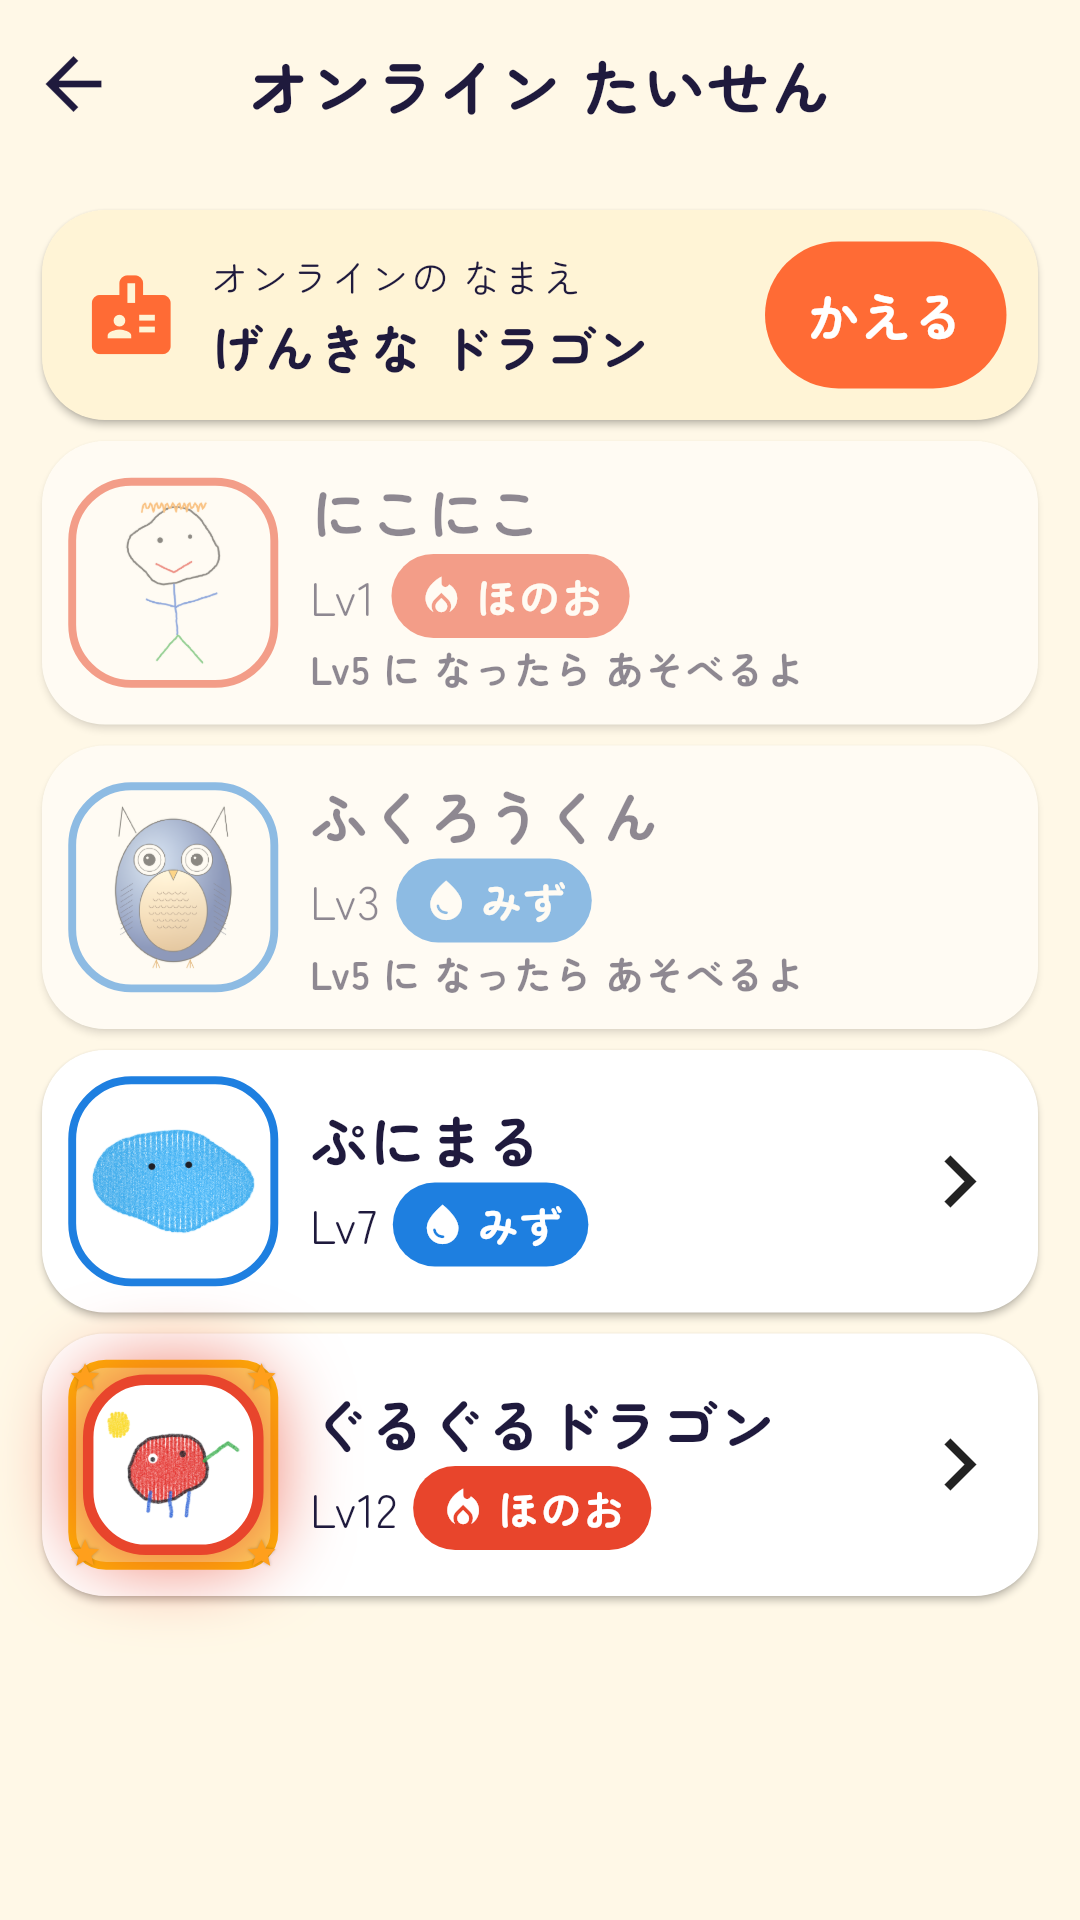
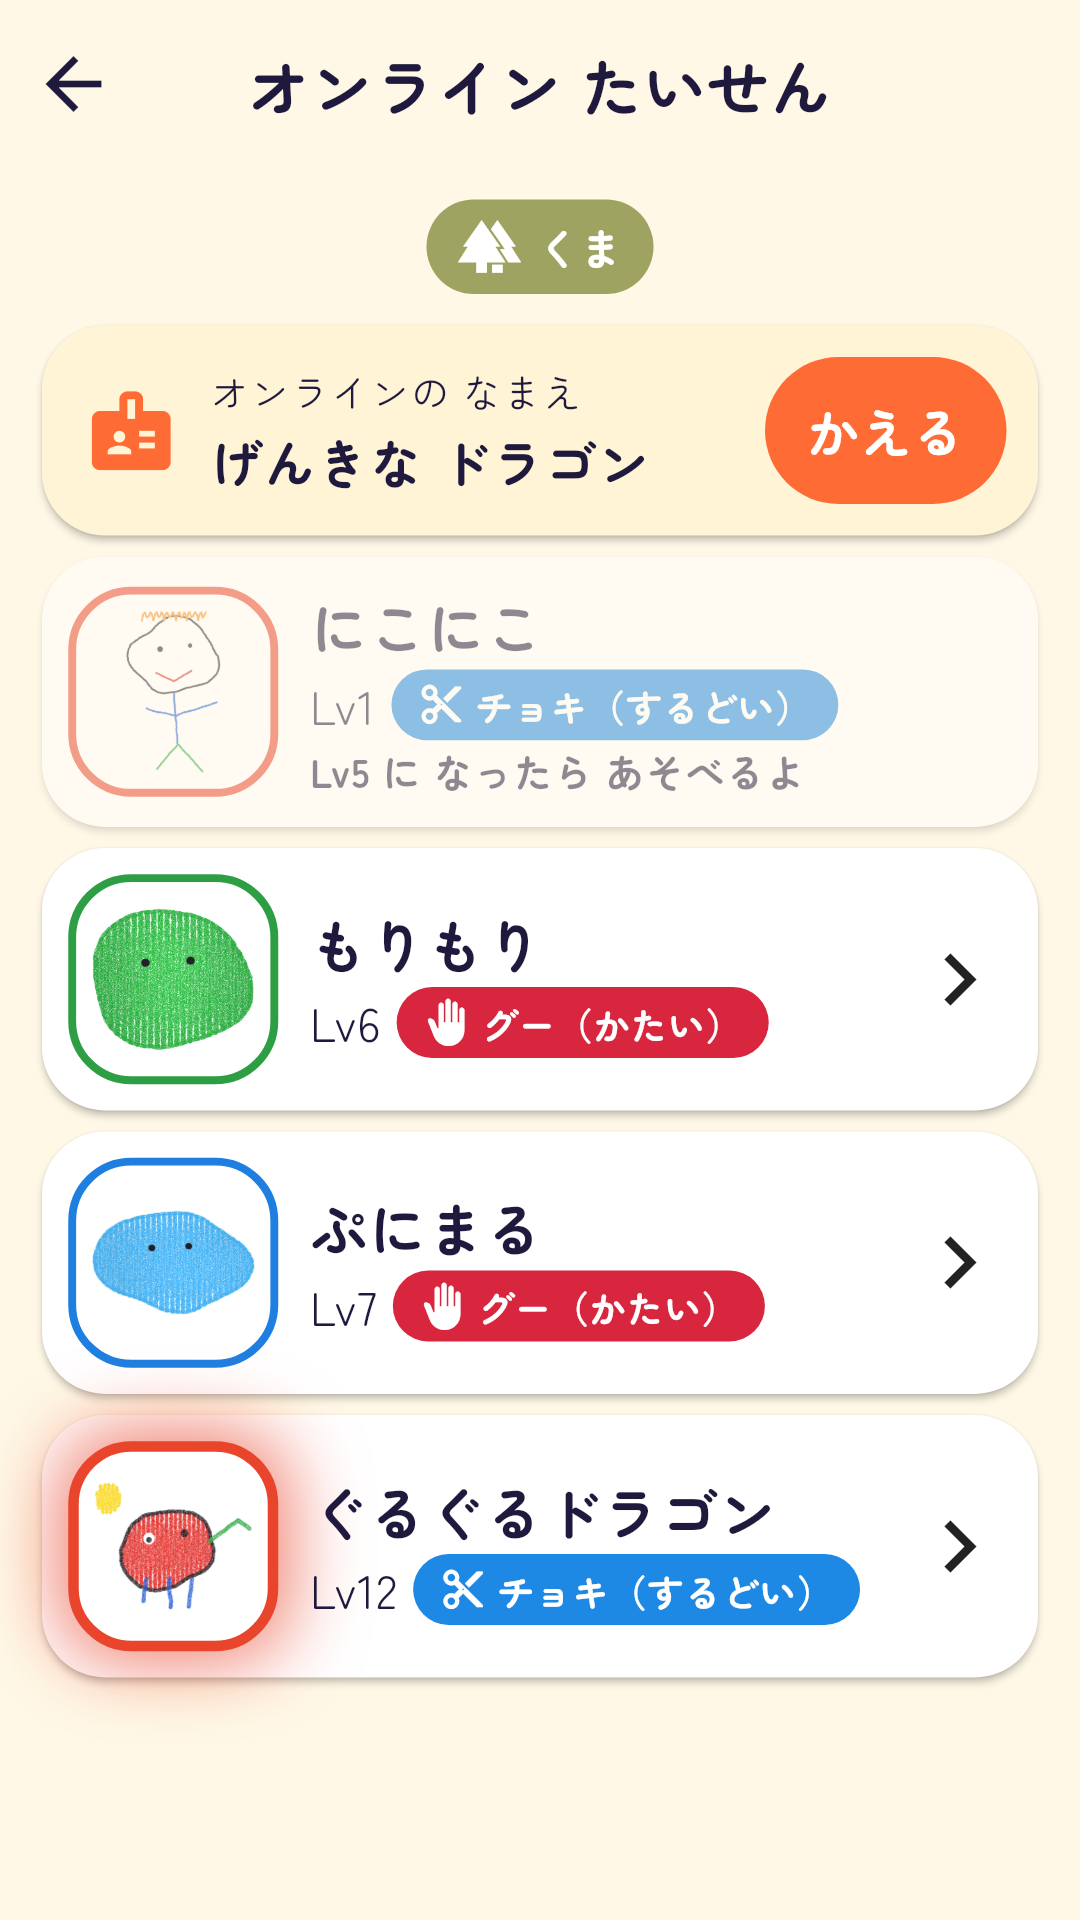
store: v2.0 screenshots (drawing tool, joint editor, 100 stages, online badge) and feature graphic
screenshots_test.dart: new shots of the in-app drawing tool and the joint
editor, worlds 1-3 open with stars, the くま badge in the online lobby; the
collection is kid drawings only (asserted: no hidden-form character in any
store shot). compose_screenshots.py: v2 order and captions, the parents'
safety list without IAP and without 'paper only'. Feature graphic tagline
'かいた えが うごいて たたかう！'.

Claude-Session: https://claude.ai/code/session_01QRHLaYFdZHWgzxL5AWfKrR

Changed region(s): [[0.0306, 0.0938, 0.9778, 0.9062], [0.9472, 0.5, 0.9778, 0.5312], [0.275, 0.125, 0.3056, 0.1562]]

diff --git a/app/test/screenshots/screenshots_test.dart b/app/test/screenshots/screenshots_test.dart
@@ -5,12 +5,17 @@
 // (`00_paper_photo.jpg`), so Before (paper) and After (character) match.
 // store/tools/compose_screenshots.py turns a selection into the listing.
 //
+// Store rule (SPEC §3.5, docs/STORE_LISTING.md §3): no screenshot shows a
+// character in the hidden form, nor anything that rates a drawing — every
+// character below is a kid drawing (checked in setUpAll).
+//
 // Not part of the normal test run (tag `screenshots` is skipped by
 // dart_test.yaml). Regenerate with `tool/screenshots.sh`.
 @Tags(['screenshots'])
 library;
 
 import 'dart:io';
+import 'dart:math' as math;
 import 'dart:ui' as ui;
 
 import 'package:doodle_battle/data/app_settings.dart';
@@ -25,6 +30,8 @@ import 'package:doodle_battle/features/card_print/card_output.dart';
 import 'package:doodle_battle/features/drawing_analysis/drawing_analyzer.dart';
 import 'package:doodle_battle/features/drawing_loop/odai/daily_odai.dart';
 import 'package:doodle_battle/features/drawing_loop/odai/stamp_card.dart';
+import 'package:doodle_battle/features/draw_canvas/draw_canvas_screen.dart';
+import 'package:doodle_battle/features/draw_canvas/stroke_drawing.dart';
 import 'package:doodle_battle/features/video_export/before_photo_extractor.dart';
 import 'package:doodle_battle/features/video_export/video_export_providers.dart';
 import 'package:flutter/material.dart';
@@ -52,7 +59,7 @@ late Uint8List _paperPhoto; // ... on a table (Before)
 late BeforePhoto _before;
 late DrawingAnalysisResult _blob;
 late DrawingAnalysisResult _marker;
-late DrawingAnalysisResult _artist; // polished line art (internally weak)
+late DrawingAnalysisResult _green;
 
 Future<void> _loadFonts() async {
   Future<ByteData> asset(String key) => rootBundle.load(key);
@@ -102,7 +109,7 @@ CharacterV2 _char(
       ],
     );
 
-/// The child's collection: levels 12 / 7 / 3 (polished line art) / 1.
+/// The child's collection: levels 12 / 7 / 6 / 1, all kid drawings.
 List<CharacterV2> _collection() => [
   _char(
     'c_1',
@@ -116,24 +123,30 @@ List<CharacterV2> _collection() => [
     subject: 'ドラゴン',
   ),
   _char('c_2', 'ぷにまる', _blob, level: 7, xp: 40),
-  _char('c_3', 'ふくろうくん', _artist, level: 3, xp: 30),
+  _char('c_3', 'もりもり', _green, level: 6, xp: 30),
   _char('c_4', 'にこにこ', _marker, level: 1),
 ];
 
 Map<String, Uint8List> _images() => {
   'c_1': _scribble.cutoutPng,
   'c_2': _blob.cutoutPng,
-  'c_3': _artist.cutoutPng,
+  'c_3': _green.cutoutPng,
   'c_4': _marker.cutoutPng,
 };
 
 const _progress = GameProgress(
-  clearedStage: 9,
+  clearedStage: 23, // worlds 1–3 open (stage select: 100 stages in 10 worlds)
+  stageStars: {
+    1: 3, 2: 3, 3: 3, 4: 2, 5: 3, 6: 3, 7: 2, 8: 3, 9: 3, 10: 2, //
+    11: 3, 12: 2, 13: 3, 14: 3, 15: 1, 16: 3, 17: 2, 18: 3, 19: 3, 20: 2,
+    21: 3, 22: 2, 23: 1,
+  },
   displayName: ChosenDisplayName(
     adjectiveId: 'a05',
     nounId: 'n01',
     text: 'げんきな ドラゴン',
   ),
+  onlineBadge: 'bear', // rated play: くま (the number is never shown)
 );
 
 AppSettings _settings({
@@ -234,11 +247,11 @@ Future<void> _centre(
   await tester.pumpAndSettle();
 }
 
-/// Highest unlocked stage whose CPU [c]'s attribute beats.
+/// Highest stage of world 1 whose CPU [c]'s attribute beats.
 int _advantageStage(CharacterV2 c) {
   final beats = c.attribute().beats;
   for (final st in stageTable().reversed) {
-    if (st.stage > _progress.clearedStage + 1) continue;
+    if (st.stage > 10) continue;
     if (testRoster.byId[st.cpuId]?.genome().attr == beats) return st.stage;
   }
   return 1;
@@ -259,9 +272,14 @@ void main() {
       ..writeAsBytesSync(_paperPhoto);
     _blob = _analyse(colourBlob(Crayon.sky, seed: 5));
     _marker = _analyse(kidMarker(seed: 4));
-    _artist = _analyse(skilledLineArt());
-    expect(_artist.isShobo, isTrue, reason: 'line art is internally weak');
-    expect(_scribble.isShobo, isFalse);
+    _green = _analyse(colourBlob(Crayon.green, seed: 9));
+    for (final c in _collection()) {
+      expect(
+        c.genome().isBloomer,
+        isFalse,
+        reason: '${c.name}: store screenshots never show the hidden form',
+      );
+    }
   });
 
   _shotTest('01 parent setup / consent', (tester) async {
@@ -297,6 +315,50 @@ void main() {
     await _shot(tester, '05_birth_traits');
   });
 
+  _shotTest('03b drawing tool (アプリで かく)', (tester) async {
+    await _pump(tester);
+    await _tap(tester, find.byKey(const Key('home-draw')));
+    await _tap(tester, find.byKey(const Key('draw-in-app')));
+    final st = tester.state<DrawCanvasScreenState>(
+      find.byType(DrawCanvasScreen),
+    );
+    for (final s in _canvasMonster().strokes) {
+      st.controller.setColor(s.color);
+      st.controller.setTool(s.tool);
+      st.controller.begin(s.xy[0], s.xy[1]);
+      for (var i = 2; i < s.xy.length; i += 2) {
+        st.controller.extend(s.xy[i], s.xy[i + 1]);
+      }
+      st.controller.end();
+    }
+    // Leave the crayon and a colour picked, as a child would.
+    st.controller.setColor(kCanvasColors[3]);
+    st.controller.setTool(DrawTool.crayon);
+    await tester.pumpAndSettle();
+    await _shot(tester, '03b_draw_canvas');
+  });
+
+  _shotTest('08c joint editor (うごく ところを なおす)', (tester) async {
+    await _pump(tester);
+    await _tap(tester, find.byKey(const Key('home-zukan')));
+    await _tap(tester, find.byKey(const Key('zukan-card-c_1')));
+    final joints = find.byKey(const Key('detail-joints'));
+    await tester.scrollUntilVisible(
+      joints,
+      300,
+      scrollable: find.byType(Scrollable).first,
+    );
+    await tester.pumpAndSettle();
+    await tester.tap(joints);
+    await settleReal(tester);
+    expect(find.byKey(const Key('joint-preview')), findsOneWidget);
+    // The preview loops forever: let it run into a pose, no settling.
+    for (var i = 0; i < 12; i++) {
+      await tester.pump(const Duration(milliseconds: 100));
+    }
+    await _shot(tester, '08c_joint_editor', settle: false);
+  });
+
   _shotTest('06 naming with an NG word', (tester) async {
     await _pump(
       tester,
@@ -324,21 +386,28 @@ void main() {
     await _shot(tester, '08b_character_detail_loop');
   });
 
-  _shotTest('09 stages / 10 battle / 11 result / 12 ad notice', (tester) async {
-    final hero = _collection().first;
-    final stage = _advantageStage(hero);
+  _shotTest('09 worlds / stages', (tester) async {
     await _pump(tester);
     await _tap(tester, find.byKey(const Key('home-battle')));
     await _tap(tester, find.byKey(const Key('select-c_1')));
     await _shot(tester, '09_world_select');
-    await _tap(tester, find.byKey(const Key('world-1')));
+    await _tap(tester, find.byKey(const Key('world-3')));
     await _centre(
       tester,
       find.byKey(Key('stage-${_progress.clearedStage + 1}')),
       alignment: 0.7,
     );
     await _shot(tester, '09b_stage_select');
+  });
 
+  _shotTest('10 battle / 11 result / 12 ad notice', (tester) async {
+    final hero = _collection().first;
+    final stage = _advantageStage(hero);
+    await _pump(tester);
+    await _tap(tester, find.byKey(const Key('home-battle')));
+    await _tap(tester, find.byKey(const Key('select-c_1')));
+    await _tap(tester, find.byKey(const Key('world-1')));
+    await _centre(tester, find.byKey(Key('stage-$stage')));
     await tapNoSettle(tester, find.byKey(Key('stage-$stage')));
     await settleReal(tester, rounds: 10);
     // Mid-fight on the 2.5D stage, with a move picked ahead (さきどり).
@@ -469,3 +538,70 @@ void main() {
 
 /// A moment inside the video's end card (docs/VIDEO.md: the last 2.8 s).
 const _videoEndCardMs = 12600;
+
+/// A round kid monster drawn with the in-app tools (canvas units, 1000×1250):
+/// crayon outline and colouring, pen face, brush horns, crayon arms and legs.
+StrokeDrawing _canvasMonster() {
+  final r = math.Random(3);
+  double j() => (r.nextDouble() - 0.5) * 8;
+  Stroke line(DrawTool t, int colour, List<(double, double)> pts) {
+    final s = Stroke(t, kCanvasColors[colour], null);
+    for (var i = 0; i < pts.length - 1; i++) {
+      for (var k = 0; k < 10; k++) {
+        final u = k / 10;
+        s.add(
+          pts[i].$1 + (pts[i + 1].$1 - pts[i].$1) * u + j(),
+          pts[i].$2 + (pts[i + 1].$2 - pts[i].$2) * u + j(),
+        );
+      }
+    }
+    s.add(pts.last.$1, pts.last.$2);
+    return s;
+  }
+
+  List<(double, double)> ring(double cx, double cy, double rx, double ry) => [
+    for (var i = 0; i <= 28; i++)
+      (
+        cx + rx * math.cos(i / 28 * 2 * math.pi),
+        cy + ry * math.sin(i / 28 * 2 * math.pi),
+      ),
+  ];
+
+  // Zig-zag colouring inside an ellipse, like a child filling it in.
+  List<(double, double)> fill(double cx, double cy, double rx, double ry) => [
+    for (var y = -ry * 0.8; y <= ry * 0.8; y += 34)
+      for (final side in [-1, 1])
+        (
+          cx + side * rx * 0.85 * math.sqrt(1 - (y / ry) * (y / ry)),
+          cy + y + (side > 0 ? 17 : 0),
+        ),
+  ];
+
+  return StrokeDrawing(
+    strokes: [
+      line(DrawTool.brush, 3, fill(500, 620, 260, 280)),
+      line(DrawTool.crayon, 2, ring(500, 620, 270, 290)),
+      // horns
+      line(DrawTool.brush, 9, [(360, 380), (330, 230), (430, 345)]),
+      line(DrawTool.brush, 9, [(640, 380), (670, 230), (570, 345)]),
+      // eyes and mouth
+      line(DrawTool.marker, 0, ring(420, 560, 38, 44)),
+      line(DrawTool.marker, 0, ring(580, 560, 38, 44)),
+      line(DrawTool.brush, 0, ring(428, 572, 10, 12)),
+      line(DrawTool.brush, 0, ring(572, 572, 10, 12)),
+      line(DrawTool.marker, 0, [
+        for (var i = 0; i <= 12; i++)
+          (420 + i * 13.3, 700 + 50 * math.sin(i / 12 * math.pi)),
+      ]),
+      line(DrawTool.crayon, 10, ring(350, 660, 34, 20)),
+      line(DrawTool.crayon, 10, ring(650, 660, 34, 20)),
+      // arms and legs
+      line(DrawTool.crayon, 8, [(245, 600), (140, 520), (90, 430)]),
+      line(DrawTool.crayon, 8, [(755, 600), (860, 520), (910, 430)]),
+      line(DrawTool.crayon, 6, [(410, 890), (390, 1060), (330, 1080)]),
+      line(DrawTool.crayon, 6, [(590, 890), (610, 1060), (670, 1080)]),
+      // a little sun
+      line(DrawTool.brush, 4, ring(860, 150, 50, 50)),
+    ],
+  );
+}

diff --git a/store/tools/compose_screenshots.py b/store/tools/compose_screenshots.py
@@ -11,7 +11,8 @@ Output: store/metadata/ja-JP/images/phoneScreenshots/NN_<name>.png  (1080x1920, 
 Each listing image is the unmodified app screen, scaled down, under a short caption.
 Shot 1 puts the photographed paper drawing next to the birth screen of the same
 drawing (Before/After). The parent-safety shot lists only things the app really does
-(docs/STORE_LISTING.md §2, QA_CHECKLIST). No other app is named anywhere.
+(docs/STORE_LISTING.md §2, QA_CHECKLIST). No other app is named anywhere, and no shot
+shows the hidden form or anything that rates a drawing (SPEC §3.5).
 
 Usage (from repo root, after app/tool/screenshots.sh):
   python3 store/tools/compose_screenshots.py
@@ -46,26 +47,35 @@ TEAL = (0, 150, 136)
 RED = (229, 57, 53)
 
 # (output name, raw screen, caption lines, band colour)
+# v2.0 order (docs/STORE_LISTING.md §3): what makes the app different first.
+# Never a screen that shows the hidden form or rates a drawing (the raw shots
+# only contain kid drawings, screenshots_test.dart checks it).
 LISTING = [
-    ("01_before_after", "05_birth_traits", ["かみに かいた えが", "キャラに なる！"], ORANGE),
-    ("02_battle", "10_battle", ["4つの わざで", "バトル！"], BLUE),
-    ("03_parents", "15_parent_settings", ["おうちの かたへ", "あんしんの しくみ"], TEAL),
-    ("04_family", "19_family_battle", ["かぞくで", "たいせん できる"], PINK),
-    ("05_video", "22_video_export", ["うごく どうがに", "できる"], PURPLE),
-    ("06_card", "20_card_print", ["カードに して", "いんさつ"], RED),
-    ("07_odai", "21_odai_calendar", ["まいにちの おだいで", "おえかき"], GREEN),
-    ("08_grow", "08_character_detail", ["そだてて", "しんか！"], ORANGE),
-    ("09_capture", "04_capture_guide", ["とりかたの コツも", "おしえるよ"], BLUE),
-    ("10_zukan", "07_zukan", ["ずかんに", "あつめよう"], PINK),
+    ("01_before_after", "05_birth_traits", ["かいた えが", "うごく キャラに！"], ORANGE),
+    ("02_battle", "10_battle", ["わざを えらぶだけ！", "リアルタイム バトル"], BLUE),
+    ("03_draw", "03b_draw_canvas", ["アプリの なかでも", "おえかき できる"], GREEN),
+    ("04_joints", "08c_joint_editor", ["うごく ところを", "じぶんで なおせる"], PURPLE),
+    ("05_stages", "09b_stage_select", ["ぜんぶで", "100 ステージ！"], RED),
+    ("06_online", "13_online_lobby", ["バッジが そだつ", "オンライン たいせん"], BLUE),
+    ("07_family", "19_family_battle", ["かぞくで", "たいせん できる"], PINK),
+    ("08_parents", "15_parent_settings", ["おうちの かたへ", "あんしんの しくみ"], TEAL),
+    ("09_video", "22_video_export", ["うごく どうがに", "できる"], PURPLE),
+    ("10_card", "20_card_print", ["カードに して", "いんさつ"], RED),
+    ("11_odai", "21_odai_calendar", ["まいにちの おだいで", "おえかき"], GREEN),
+    ("12_grow", "08_character_detail", ["そだてて", "しんか！"], ORANGE),
+    ("13_capture", "04_capture_guide", ["とりかたの コツも", "おしえるよ"], BLUE),
+    ("14_zukan", "07_zukan", ["ずかんに", "あつめよう"], PINK),
 ]
 
-# Shown on 03_parents. Each line is backed by the implementation (QA_CHECKLIST).
+# Shown on 08_parents. Each line is backed by the implementation (QA_CHECKLIST
+# §13.3) and by the v2.0 spec (SPEC §7.2, §10). No "paper drawings only" any
+# more: v2.0 accepts every picture that is not a photo or unsafe.
 SAFETY = [
     "チャットなし・ガチャなし",
-    "設定と購入は 保護者の確認の先",
-    "広告・課金・オンラインは 初期設定でオフ",
+    "無料・アプリ内課金なし",
+    "設定と外部リンクは 保護者の確認の先",
+    "広告・オンラインは 初期設定でオフ",
     "絵は AI の学習に使いません",
-    "紙に手で描いた絵だけ（AI画像は取り込めません）",
 ]
 
 
@@ -155,7 +165,7 @@ def before_after(lines, color, rng) -> Image.Image:
     ay = 1120
     g.crayon_line(img, [(110 + i * 14, ay + math.sin(i / 3) * 8) for i in range(17)], g.ORANGE_DARK, 24, rng)
     g.crayon_line(img, [(300, ay - 45), (352, ay), (300, ay + 45)], g.ORANGE_DARK, 24, rng)
-    label(img, "クレヨンや ペンで かいて、とるだけ", (W / 2, 1820), size=44)
+    label(img, "かみに かいて とるだけ。アプリでも かけるよ", (W / 2, 1820), size=42)
     return img
 
 
@@ -217,7 +227,7 @@ def main() -> None:
         rng = random.Random(g.SEED + 100 + i)
         if name == "01_before_after":
             img = before_after(lines, color, rng)
-        elif name == "03_parents":
+        elif name == "08_parents":
             img = parents(lines, color, rng)
         else:
             img = standard(name, raw_name, lines, color, rng)

diff --git a/store/tools/gen_graphics.py b/store/tools/gen_graphics.py
@@ -363,7 +363,7 @@ def make_feature() -> Image.Image:
     # crayon underline
     crayon_line(img, [(W * 0.34 + i * W * 0.32 / 20, ty + bb[3] + H * 0.045 + math.sin(i / 2.0) * H * 0.008)
                       for i in range(21)], YELLOW, H * 0.02, rng)
-    sub = "かみに かいた えが たたかう！"
+    sub = "かいた えが うごいて たたかう！"
     f2 = ImageFont.truetype(fp, int(H * 0.058))
     bb2 = d.textbbox((0, 0), sub, font=f2)
     sx = (W - (bb2[2] - bb2[0])) / 2 - bb2[0]
